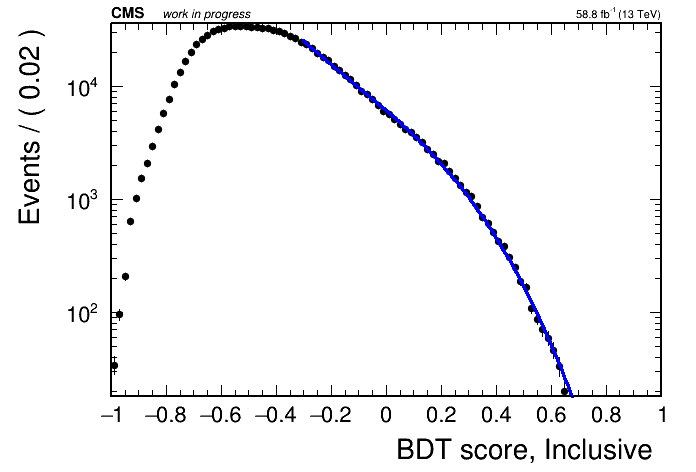
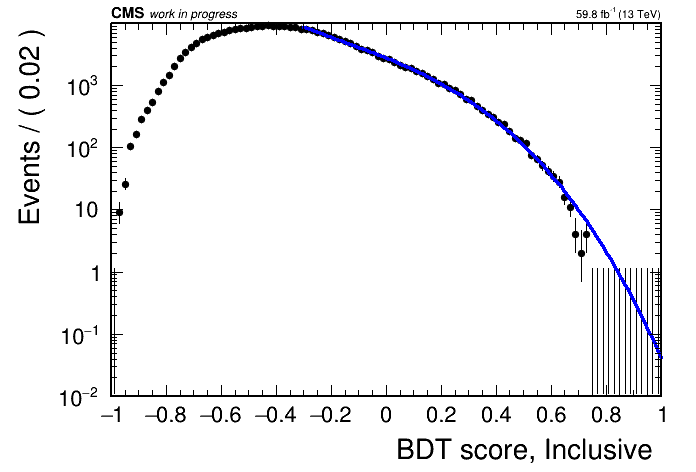
added different datasets fo shape and norm

diff --git a/makeYield/ZTT/makeCards.py b/makeYield/ZTT/makeCards.py
@@ -47,16 +47,13 @@ class makeCards:
         
         
         
-        def FitBDT(self,datafile,categ):
+        def FitBDT(self,datafile_for_norm,datafile_for_shape,categ):
                 
                 fit_range_lo = 1.6
                 fit_range_hi = 2.0
                 
                 signal_range_lo = 1.74
                 signal_range_hi = 1.81
-                
-                MiniTreeFile = ROOT.TFile.Open(datafile)
-                MiniTreeFile.cd()
                 
                 treeName=''
                 signalnorm = 1.0
@@ -82,7 +79,13 @@ class makeCards:
                         signalnorm = 0.00000824176
                         cat_label = "Inclusive"
                 
+                MiniTreeFile = ROOT.TFile.Open(datafile_for_shape)
+                MiniTreeFile.cd()
                 tree = MiniTreeFile.Get(treeName)
+                
+                MiniTreeFile_ForNorm = ROOT.TFile.Open(datafile_for_norm)
+                MiniTreeFile_ForNorm.cd()
+                tree_norm = MiniTreeFile_ForNorm.Get(treeName)
                 
                 tripletMass          = ROOT.RooRealVar('tripletMass'                , '3#mu mass'           , fit_range_lo, fit_range_hi, 'GeV')
                 self.bdt_cv          = ROOT.RooRealVar('bdt_cv'                     , 'bdt_cv'              , -1 , 1)
@@ -104,17 +107,24 @@ class makeCards:
                 variables.add(category)
                 variables.add(isMC)
                 
-                phivetoes="(fabs(dimu_OS1 - 1.020)>0.020)&(fabs(dimu_OS2 - 1.020)>0.020)"
-                omegavetoes="&fabs(dimu_OS1 - 0.782)>0.020&fabs(dimu_OS2 - 0.782)>0.020&"
+                phivetoes="(fabs(dimu_OS1 - 1.020)>0.020)&(fabs(dimu_OS2 - 1.020)>0.020)&"
+                omegavetoes="fabs(dimu_OS1 - 0.782)>0.020&fabs(dimu_OS2 - 0.782)>0.020&"
                 
                 
                 # For fitting BDT Output in Data
                 
                 BDT_Score_Min=-0.3
                 
-                BlindDataSelector = RooFormulaVar('DataSelector', 'DataSelector', phivetoes+omegavetoes+' isMC == 0 & (tripletMass<=%s || tripletMass>=%s) & (tripletMass>=%s & tripletMass<=%s) ' %(signal_range_lo,signal_range_hi,fit_range_lo,fit_range_hi) , RooArgList(variables))
+                BlindDataSelector = RooFormulaVar('DataSelector', 'DataSelector', phivetoes+' isMC == 0 & (tripletMass<=%s || tripletMass>=%s) & (tripletMass>=%s & tripletMass<=%s) ' %(signal_range_lo,signal_range_hi,fit_range_lo,fit_range_hi) , RooArgList(variables))
                 
-                fulldata = RooDataSet('data', 'data', tree,  variables, BlindDataSelector)
+                fulldata_shape = RooDataSet('fulldata_shape', 'fulldata_shape', tree,  variables, BlindDataSelector)
+                fulldata_norm = RooDataSet('fulldata_norm', 'fulldata_norm', tree_norm,  variables, BlindDataSelector)
+                #print("shape tree norm: ",fulldata_shape.numEntries()," and main tree norm: ",fulldata_norm.numEntries())
+                data_scale = ROOT.RooRealVar('data_scale', 'data_scale', 1.0*fulldata_norm.numEntries()/fulldata_shape.numEntries())
+                dataset_vars_data = fulldata_shape.get()
+                dataset_vars_data.add(data_scale)
+                
+                fulldata = RooDataSet('fulldata', 'fulldata', fulldata_shape,  dataset_vars_data, "",'data_scale')
                 
                 self.bdt_cv.setRange("BDT_Fit_Range", BDT_Score_Min, 1.0);
                 
@@ -141,11 +151,11 @@ class makeCards:
                 
                 # For fitting BDT Output in Signal
 
-                self.MCSelector = RooFormulaVar('MCSelector', 'MCSelector', phivetoes+omegavetoes+' isMC !=0 & (isMC == 211 | isMC == 210231 | isMC == 210232 | isMC == 210233 ) & (tripletMass>=%s & tripletMass<=%s) ' %(fit_range_lo,fit_range_hi) , RooArgList(variables))
+                self.MCSelector = RooFormulaVar('MCSelector', 'MCSelector', phivetoes+' isMC !=0 & (isMC == 211 | isMC == 210231 | isMC == 210232 | isMC == 210233 ) & (tripletMass>=%s & tripletMass<=%s) ' %(fit_range_lo,fit_range_hi) , RooArgList(variables))
                 
-                
-                self.fullmc_unweighted = RooDataSet('mc', 'mc', tree, variables, self.MCSelector')
-                dataset_vars = fullmc_unweighted.get()
+                #signal always uses the normalized/final PF tree
+                self.fullmc_unweighted = RooDataSet('mc', 'mc', tree_norm, variables, self.MCSelector)
+                dataset_vars = self.fullmc_unweighted.get()
                 dataset_vars.add(scale)
                 
                 self.fullmc = RooDataSet('mc', 'mc', self.fullmc_unweighted, dataset_vars, "",'scale')
@@ -208,6 +218,7 @@ class makeCards:
                 ROOT.gPad.SaveAs('bdt_fit_mc_'+categ+'.png')
                 ROOT.gPad.Clear()
 
+                frame2.SetMinimum(1e-2)
                 ROOT.gPad.SetLogy()
                 frame2.Draw()
                 ROOT.gPad.SetTicks(1,1)
@@ -282,13 +293,13 @@ class makeCards:
                         exp_fact = (signal_range_hi-signal_range_lo)/(fit_range_hi-fit_range_lo-(signal_range_hi-signal_range_lo))
                         print('   exp_fact   ', exp_fact)
                         exp_fact_different_pdf = getExtrapFactor('unfixed_exp', categ, point)
+                        print('   exp_fact_different_pdf   ', exp_fact_different_pdf )
                         
                         exp_uncert = 1.0 + abs(exp_fact_different_pdf-exp_fact)/exp_fact
                         
                         print("bdt point: ", point," sig_est: ", sig_est, " bkg_est: ", bkg_est, " sb_est: ", sb_est, " exp_uncert: ", exp_uncert)
                         
-                        command_mod_card = "python card_modifiers/Card_Mod.py --categ " + str(categ) + " --sig_exp " + str(sig_est) + " --bkg_exp " + str(bkg_est) + " --sb_exp " + str(sb_est) + " --ext_unc " + str(exp_uncert) 
-                        print('   exp_fact_different_pdf   ', exp_fact_different_pdf )
+                        command_mod_card = "python3 card_modifiers/Card_Mod.py --categ " + str(categ) + " --sig_exp " + str(sig_est) + " --bkg_exp " + str(bkg_est) + " --sb_exp " + str(sb_est) + " --ext_unc " + str(exp_uncert) 
                         
                         
                         os.system(command_mod_card)
@@ -297,7 +308,7 @@ class makeCards:
                         command_copy_dc = "cp modified_dc_{0}.txt lumi_limit_scans/{0}/BDT_point_{1}/dc_{2}.txt".format(categ, str(point), str(lu))
                         os.system(command_copy_dc)
                         
-        def CombineSubcategories(self,datafile,categ):
+        def CombineSubcategories(self,categ):
                 pattern = re.compile(r'dc_(\d+)\.txt')
                 
                 
@@ -516,7 +527,7 @@ def getExtrapFactor(pdftype, categ, bdtcut):
             diff = abs(cut - bdtcut)
             
             # Update the closest cut and its extrapolation factor if this cut is closer
-            print('diff ', diff, ' min_diff   ', min_diff, '  n_sideband   ', n_sideband)
+            #print('diff ', diff, ' min_diff   ', min_diff, '  n_sideband   ', n_sideband)
             if diff < min_diff and n_sideband > 0.5:
                 min_diff = diff
                 closest_cut = cut
@@ -590,8 +601,8 @@ def MakeAndSaveExpFactors(datafile,categ,bdt_points):
         variables.add(category)
         variables.add(isMC)
         
-        phivetoes="(fabs(dimu_OS1 - 1.020)>0.020)&(fabs(dimu_OS2 - 1.020)>0.020)"
-        omegavetoes="&fabs(dimu_OS1 - 0.782)>0.020&fabs(dimu_OS2 - 0.782)>0.020&"
+        phivetoes="(fabs(dimu_OS1 - 1.020)>0.020)&(fabs(dimu_OS2 - 1.020)>0.020)&"
+        omegavetoes="fabs(dimu_OS1 - 0.782)>0.020&fabs(dimu_OS2 - 0.782)>0.020&"
         
         
         for bdt_cut in bdt_points:
@@ -601,9 +612,9 @@ def MakeAndSaveExpFactors(datafile,categ,bdt_points):
                 
                 BDT_Score_Min=-0.3
                 
-                BlindDataSelector = RooFormulaVar('DataSelector', 'DataSelector',' bdt_cv > ' + str(bdt_cut)+' & '+ phivetoes+omegavetoes+' isMC == 0 & (tripletMass<=%s || tripletMass>=%s) & (tripletMass>=%s & tripletMass<=%s) ' %(signal_range_lo,signal_range_hi,fit_range_lo,fit_range_hi) , RooArgList(variables))
+                BlindDataSelector = RooFormulaVar('DataSelector', 'DataSelector',' bdt_cv > ' + str(bdt_cut)+' & '+ phivetoes+' isMC == 0 & (tripletMass<=%s || tripletMass>=%s) & (tripletMass>=%s & tripletMass<=%s) ' %(signal_range_lo,signal_range_hi,fit_range_lo,fit_range_hi) , RooArgList(variables))
                 
-                fulldata = RooDataSet('data', 'data', tree,  variables, BlindDataSelector)
+                fulldata = RooDataSet('fulldata', 'fulldata', tree,  variables, BlindDataSelector)
                 
                 bdt_cv.setRange("BDT_Fit_Range", BDT_Score_Min, 1.0);
                 
@@ -640,23 +651,23 @@ if __name__ == "__main__":
         # Enable batch mode
         ROOT.gROOT.SetBatch(True)
         
-        #categories = ['taumu']
+        #categories = ['taue']
         categories = ['taue','taumu','tauhA','tauhB','all']
         #categories = ['tauhA','tauhB','all']
         #categories = ['combined'] # Can only be run after the other 4 categories are read and copied
         
-        datafile = "../../../Combine_Tree_ztau3mutau.root"        
+        datafile_bdt_shape = "../../../../Combine_Tree_ztau3mutau_orig_PostBDT.root"
         
-        lumi = np.round(np.arange(100,4500,500), 0)
-        #lumi = np.round(np.arange(100,200,100), 0)
-        lumi = np.insert(lumi, 0 , 59.8)
-        lumi = np.append(lumi, 4500)
+        datafile_main = "../../../../Combine_Tree_ztau3mutau_PF_PostBDT.root"#The final PF cuts I would prefer to use
+        
+        #lumi = np.round(np.arange(100,4500,500), 0)
+        #lumi = np.insert(lumi, 0 , 59.8)
+        #lumi = np.append(lumi, 4500)
+        
+        lumi = np.round([59.8,3000.0])
         
         cmd1 = 'mkdir lumi_limit_scans;'
         os.system(cmd1)
-        
-        #num_points = 20
-        #bdt_points = np.round(np.linspace(0.2,0.7,num_points), 2)
         
         bdt_points = np.round(np.arange(0.2, 0.8 + 0.04, 0.04), 2)
         
@@ -668,30 +679,44 @@ if __name__ == "__main__":
         for cat in range(Cat_No):
                 categ = categories[cat]
                 
+                datafile_for_norm = datafile_main
+                datafile_for_shape = datafile_main
                 analyzed_lumi = 1.0
                 if(categ == 'taue' and WhetherFitBDTandMakeCards):
                         analyzed_lumi = 59.83
+                        datafile_for_norm = datafile_main
+                        datafile_for_shape = datafile_bdt_shape
                 if(categ == 'taumu'):
                         analyzed_lumi = 59.83
+                        datafile_for_norm = datafile_main
+                        datafile_for_shape = datafile_main
                 if(categ == 'tauhA'):
                         analyzed_lumi = 59.83
+                        datafile_for_norm = datafile_main
+                        datafile_for_shape = datafile_bdt_shape
                 if(categ == 'tauhB'):
                         analyzed_lumi = 59.83
+                        datafile_for_norm = datafile_main
+                        datafile_for_shape = datafile_bdt_shape
                 if(categ == 'all'):
                         analyzed_lumi = 59.83
+                        datafile_for_norm = datafile_main
+                        datafile_for_shape = datafile_main
                 if(categ == 'combined'):
                         analyzed_lumi = 59.83
+                        datafile_for_norm = datafile_main
+                        datafile_for_shape = datafile_main
                         
                 if(WhetherFitBDTandMakeCards and (not categ == 'combined')):
                         open("Slopes_%s_%s"%(categ,"unfixed_exp")+".txt", 'w').close()
-                        MakeAndSaveExpFactors(datafile,categ,bdt_points)
+                        MakeAndSaveExpFactors(datafile_for_shape,categ,bdt_points)
                         BDTFit_Cat = makeCards()
-                        BDTFit_Cat.FitBDT(datafile,categ)
+                        BDTFit_Cat.FitBDT(datafile_for_norm,datafile_for_shape,categ)
                         BDTFit_Cat.MakeLumiScanCards(lumi,categ,analyzed_lumi)
                         
                 if(WhetherFitBDTandMakeCards and categ == 'combined'):
                         BDTFit_Cat = makeCards()
-                        BDTFit_Cat.CombineSubcategories(datafile,categ)
+                        BDTFit_Cat.CombineSubcategories(categ)
                 
                 
         #executeDataCards_onCondor(lumi,categories,False,bdt_points)

diff --git a/makeYield/W/makeCards.py b/makeYield/W/makeCards.py
@@ -33,6 +33,7 @@ class makeCards:
                 self.BDTNorm_MC = None
                 self.BDT_distribution_MC = None
                 self.MCSelector = None
+                self.fullmc_unweighted = None
                 self.fullmc = None
                 
                 self.a = None
@@ -260,7 +261,6 @@ class makeCards:
                 variables.add(event_weight)
                 variables.add(category)
                 variables.add(isMC)
-                variables.add(scale)
                 
                 phivetoes="(fabs(dimu_OS1 - 1.020)>0.020)&(fabs(dimu_OS2 - 1.020)>0.020)"
                 omegavetoes="&fabs(dimu_OS1 - 0.782)>0.020&fabs(dimu_OS2 - 0.782)>0.020&"
@@ -298,38 +298,43 @@ class makeCards:
                 
                 
                 # For fitting BDT Output in Signal
-                
+
                 self.MCSelector = RooFormulaVar('MCSelector', 'MCSelector', phivetoes+omegavetoes+' isMC !=0 & (isMC == 211 | isMC == 210231 | isMC == 210232 | isMC == 210233 ) & (tripletMass>=%s & tripletMass<=%s) ' %(fit_range_lo,fit_range_hi) , RooArgList(variables))
                 
-                self.fullmc = RooDataSet('mc', 'mc', tree, variables, self.MCSelector,'scale')
                 
+                self.fullmc_unweighted = RooDataSet('mc', 'mc', tree, variables, self.MCSelector')
+                dataset_vars = fullmc_unweighted.get()
+                dataset_vars.add(scale)
+                
+                self.fullmc = RooDataSet('mc', 'mc', self.fullmc_unweighted, dataset_vars, "",'scale')
+
                 self.bdt_cv.setRange("BDT_MC_Fit_Range", -1.0, 1.0);
-                
+
                 self.bgausmeanMC = RooRealVar("bgausmeanMC", "bgausmeanMC", 0.5, 0.0, 0.9)
                 self.bgaussigmaMC_a = RooRealVar("bgaussigmaMC_a", "bgaussigmaMC_a", 0.2, 0.000001, 1.0)
                 self.bgaussigmaMC_b = RooRealVar("bgaussigmaMC_b", "bgaussigmaMC_b", 0.2, 0.000001, 1.0)
-                
+
                 self.bgaus_distMC = RooBifurGauss("bgaus_distMC", "bgaus dist MC", self.bdt_cv, self.bgausmeanMC, self.bgaussigmaMC_a, self.bgaussigmaMC_b)
-                
+
                 self.BDTNorm_MC = RooRealVar("BDTNorm_MC", "BDTNorm_MC", 500.0, 0.1, 50000)
                 self.BDT_distribution_MC = RooAddPdf("BDT_distribution", "BDT_distribution",RooArgList(self.bgaus_distMC), RooArgList(self.BDTNorm_MC))
-                
+
                 results_mcpdf = self.BDT_distribution_MC.fitTo(self.fullmc, RooFit.Range('BDT_MC_Fit_Range'), RooFit.Save())
                 results_mcpdf.Print()
-                
-                
+
+
                 # Plot BDT for data and MC
-                
+
                 frame1 = self.bdt_cv.frame()
                 frame1.SetTitle('')
                 frame1.GetXaxis().SetTitle("BDT score, "+cat_label)
-                
+
                 frame2 = self.bdt_cv.frame()
                 frame2.SetTitle('')
                 frame2.GetXaxis().SetTitle("BDT score, "+cat_label)
-                
+
                 nbins = 100
-                
+
                 self.fullmc.plotOn(frame1, 
                               ROOT.RooFit.Binning(nbins), 
                               ROOT.RooFit.XErrorSize(0), 
@@ -340,19 +345,19 @@ class makeCards:
                               ROOT.RooFit.FillColor(ROOT.kCyan  + 2)
                 )
                 #self.BDT_distribution_MC.plotOn(frame1, ROOT.RooFit.LineColor(ROOT.kRed ))
-                
-                
+
+
                 fulldata.plotOn(frame2, 
                         ROOT.RooFit.Binning(nbins),
                         ROOT.RooFit.MarkerStyle(20),
                         ROOT.RooFit.MarkerColor(ROOT.kBlack), 
                         ROOT.RooFit.MarkerSize(0.75))
-                        
+
                 #BDT_distribution.plotOn(frame2,  ROOT.RooFit.LineColor(ROOT.kBlue) , ROOT.RooFit.Normalization(fulldata.sumEntries("1", "BDT_Fit_Range"), ROOT.RooAbsReal.NumEvent), ROOT.RooFit.ProjectionRange('BDT_Fit_Range') )
                 #BDT_distribution.plotOn(frame2,  ROOT.RooFit.LineColor(ROOT.kBlue) , ROOT.RooFit.Normalization(BDTNorm.getVal()*BDT_distribution.createIntegral(ROOT.RooArgSet(self.bdt_cv), ROOT.RooArgSet(self.bdt_cv), "BDT_Fit_Range").getVal(), ROOT.RooAbsReal.NumEvent), ROOT.RooFit.ProjectionRange('BDT_Fit_Range') )
-                
+
                 self.BDT_distribution.plotOn(frame2,  ROOT.RooFit.LineColor(ROOT.kBlue) )
-                
+
                 frame1.Draw()
                 ROOT.gPad.SetTicks(1,1)
                 CMS_lumi(ROOT.gPad, 5, 0)
@@ -360,7 +365,7 @@ class makeCards:
                 frame1.Draw('sameaxis')
                 ROOT.gPad.SaveAs('bdt_fit_mc_'+categ+'.png')
                 ROOT.gPad.Clear()
-                
+
                 ROOT.gPad.SetLogy()
                 frame2.Draw()
                 ROOT.gPad.SetTicks(1,1)
@@ -369,11 +374,10 @@ class makeCards:
                 frame2.Draw('sameaxis')
                 ROOT.gPad.SaveAs('bdt_fit_bkg_'+categ+'.png')
                 ROOT.gPad.SetLogy(0)
-                
-                
-                #print "Certain BDT cut: ", self.fullmc.reduce('bdt_cv > 0.5').sumEntries()
-                
-                
+
+
+                #print("Certain BDT cut: ", self.fullmc.reduce('bdt_cv > 0.5').sumEntries())
+
                 return frame1, frame2, self.fullmc, fulldata
                 
                 
@@ -439,7 +443,7 @@ class makeCards:
                         
                         exp_uncert = 1.0 + abs(exp_fact_different_pdf-exp_fact)/exp_fact
                         
-                        print "bdt point: ", point," sig_est: ", sig_est, " bkg_est: ", bkg_est, " sb_est: ", sb_est, " exp_uncert: ", exp_uncert
+                        print("bdt point: ", point," sig_est: ", sig_est, " bkg_est: ", bkg_est, " sb_est: ", sb_est, " exp_uncert: ", exp_uncert)
                         
                         command_mod_card = "python card_modifiers/Card_Mod.py --categ " + str(categ) + " --sig_exp " + str(sig_est) + " --bkg_exp " + str(bkg_est) + " --sb_exp " + str(sb_est) + " --ext_unc " + str(exp_uncert) 
                         print('   exp_fact_different_pdf   ', exp_fact_different_pdf )
@@ -491,7 +495,7 @@ class makeCards:
                 #        command = "combineCards.py %s %s %s > %s"% (str(file1) ,str(file2) ,str(file3), str(output_file))  # rm ZTT for now
                         command = "combineCards.py %s %s %s %s > %s"% (str(file1),str(file2),str(file3) ,str(file4), str(output_file))
                         
-                        print("Running command: %s" % (command) )
+                        print("Running command: %s" % (command))
                         os.system(command)
                         os.system('mv dc_*txt combined/datacards_modified')
                     else:
@@ -743,7 +747,6 @@ def MakeAndSaveExpFactors(datafile,categ,bdt_points):
         variables.add(event_weight)
         variables.add(category)
         variables.add(isMC)
-        variables.add(scale)
         
         phivetoes="(fabs(dimu_OS1 - 1.020)>0.020)&(fabs(dimu_OS2 - 1.020)>0.020)"
         omegavetoes="&fabs(dimu_OS1 - 0.782)>0.020&fabs(dimu_OS2 - 0.782)>0.020&"
@@ -790,18 +793,17 @@ def MakeAndSaveExpFactors(datafile,categ,bdt_points):
 
 
 
-                        
 if __name__ == "__main__":
-    
+        
         # Enable batch mode
         ROOT.gROOT.SetBatch(True)
         
         #categories = ['taumu']
-        #categories = ['taue','taumu','tauhA','tauhB','all']
+        categories = ['taue','taumu','tauhA','tauhB','all']
         #categories = ['tauhA','tauhB','all']
-        categories = ['combined'] # Can only be run after the other 4 categories are read and copied
+        #categories = ['combined'] # Can only be run after the other 4 categories are read and copied
         
-
+        datafile = "../../../Combine_Tree_ztau3mutau.root"        
         
         lumi = np.round(np.arange(100,4500,500), 0)
         #lumi = np.round(np.arange(100,200,100), 0)
